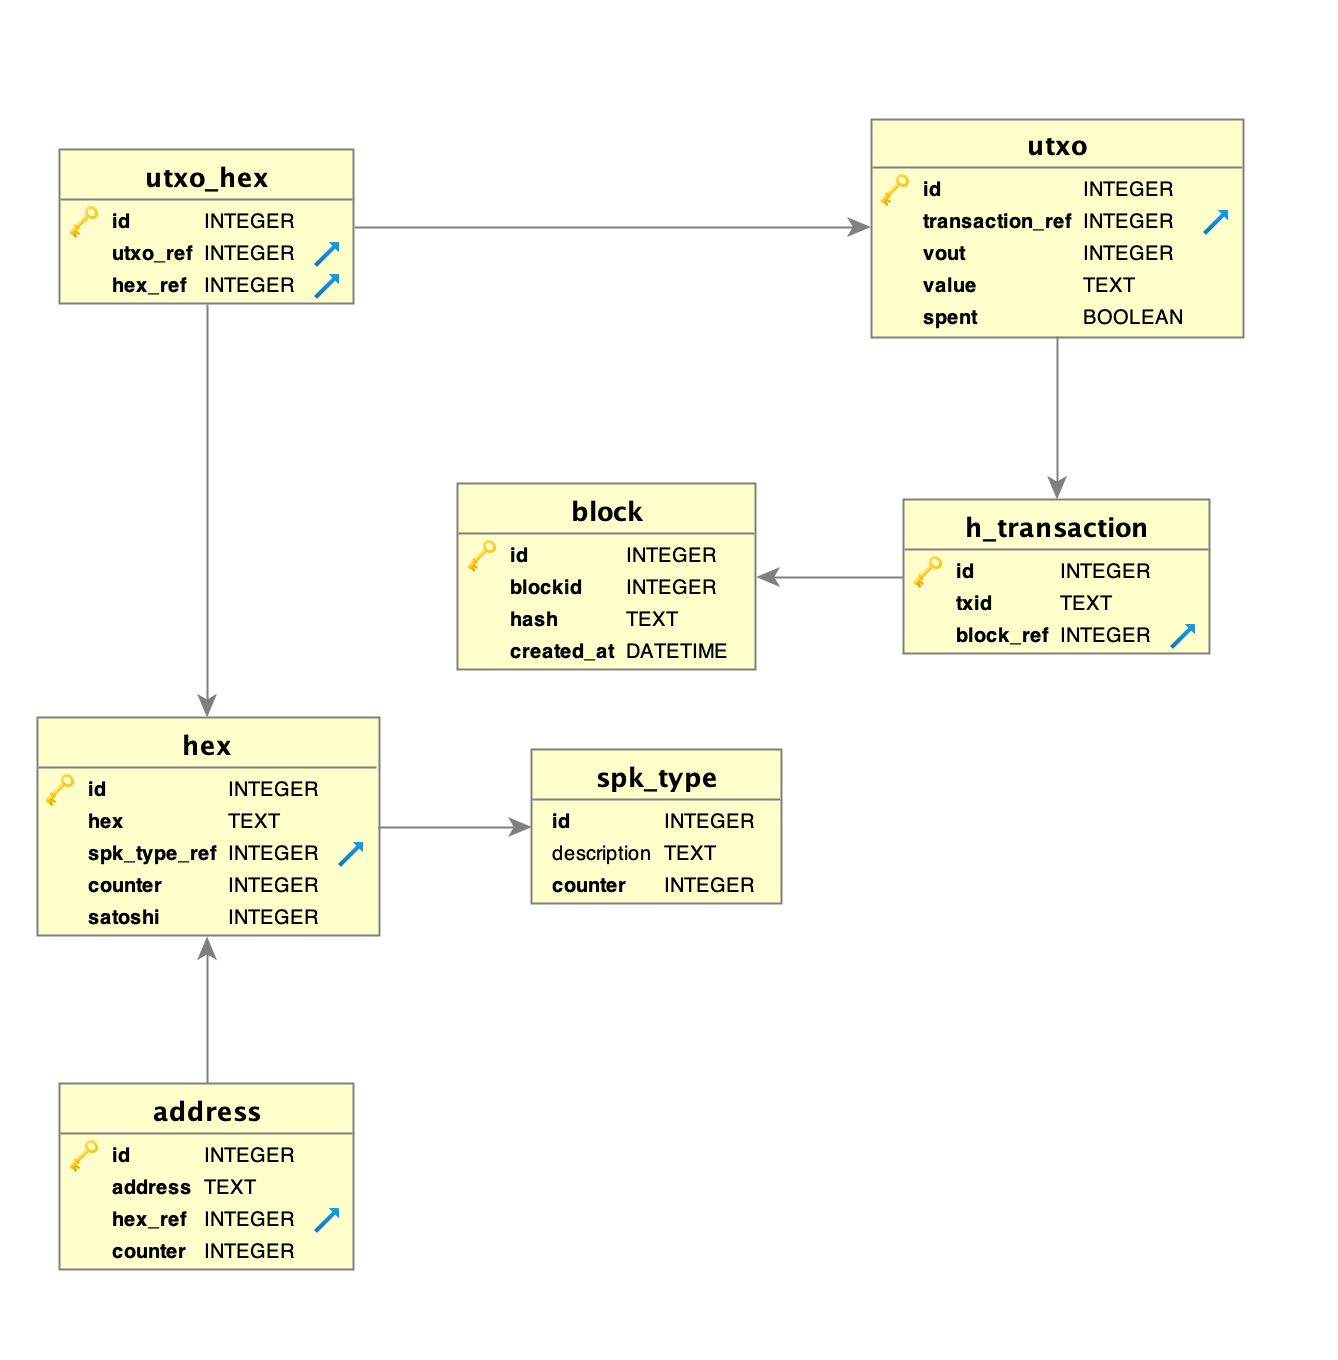
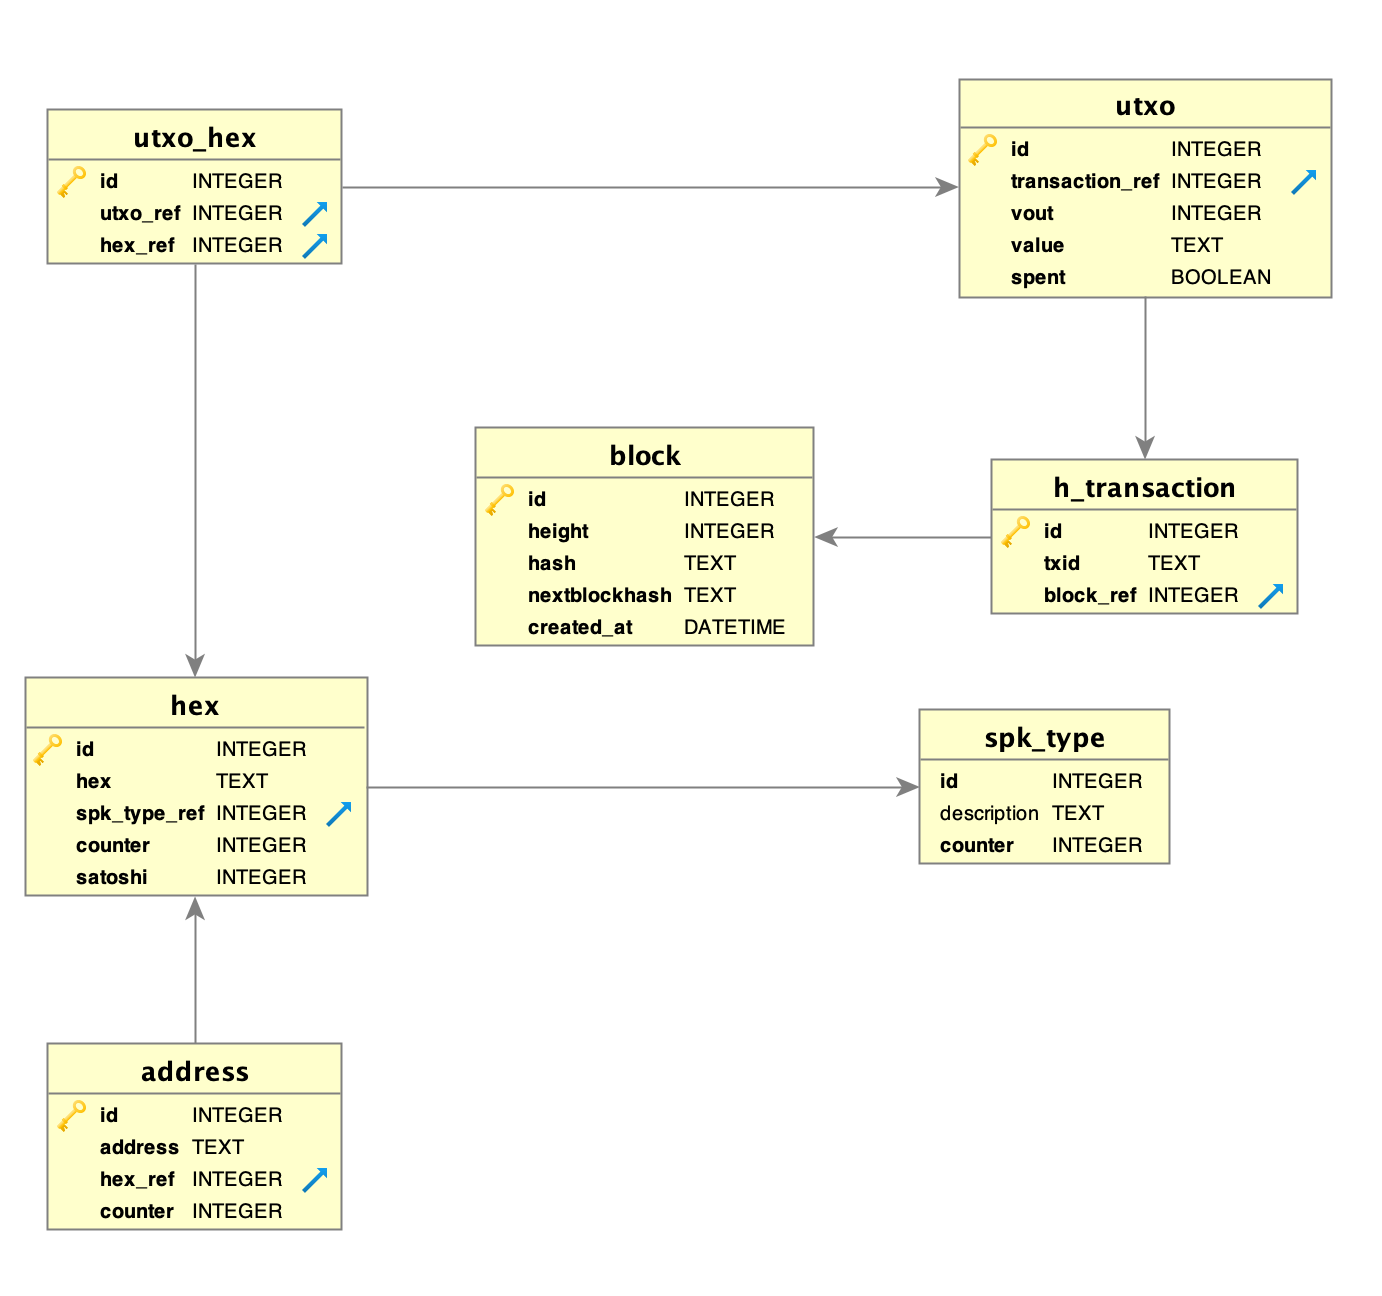
remove unnecessary call to RPC-API `getblockhash`

diff --git a/explore.js b/explore.js
@@ -19,15 +19,21 @@ const db = {
 		explore.db.prepare('commit')
 			.run();
 	},
-	selectLastBlock: () => {
-		const ret = explore.db.prepare('select max (blockid) as lastBlockID from block')
+	selectCountBlock: () => {
+		const ret = explore.db.prepare('select count (*) as ts_counter from block')
 			.get();
 		assert(ret);
 		return ret;
 	},
-	insertBlock: (index, hash) => {
-		const info = explore.db.prepare('insert into block(blockid, hash) values (?, ?)')
-			.run(index, hash);
+	selectLastBlock: () => {
+		const ret = explore.db.prepare('select height, hash, nextblockhash from block where height = (select max (height) from block)')
+			.get();
+		assert(ret);
+		return ret;
+	},
+	insertBlock: block => {
+		const info = explore.db.prepare('insert into block(height, hash, nextblockhash) values (?, ?, ?)')
+			.run(block.height, block.hash, block.nextblockhash);
 		assert(info.changes === 1);
 		return info;
 	},
@@ -154,14 +160,19 @@ const main = async () => {
 	} */);
 
 	explore.bc = new BitcoinCore(configuration.bitcoinCore);
-	const lastBlock = db.selectLastBlock();
-	for (let i = lastBlock.lastBlockID + 1; i <= 200000; ++i) {
+	let lastBlock = {};
+	if (db.selectCountBlock().ts_counter > 0) {
+		lastBlock = db.selectLastBlock();
+	} else {
+		// genesis block.hash
[1 lines of base64/hex data omitted]
+	}
+	for (;;) {
 		db.beginTransaction();
-		const blockHash = await explore.bc.getBlockHash(i);
-		const insertBlockResult = db.insertBlock(i, blockHash);
-		const block = await explore.bc.getBlock(blockHash, 2);
+		lastBlock = await explore.bc.getBlock(lastBlock.nextblockhash, 2);
+		const insertBlockResult = db.insertBlock(lastBlock);
 
-		block.tx.forEach(raw => {
+		lastBlock.tx.forEach(raw => {
 			handleTransaction(raw, insertBlockResult.lastInsertRowid);
 		});
 		db.commit();

diff --git a/README.md b/README.md
@@ -33,7 +33,7 @@ Edit `configuration.js` setting the right `port` (`rpcport` in `bitcoin.conf`), 
 $ node explore.js
 ```
 The application build the database throw bitcoind's RPC-APIs:
-* `getblockhash`
+* ~~`getblockhash`~~
 * `getblock`
 
 ## Sniffing
